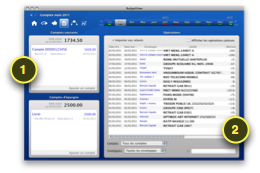
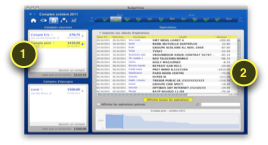
Mise a jour de l'aide

diff --git a/picsou/picsou/website/fr/content/support/change_log.html b/picsou/picsou/website/fr/content/support/change_log.html
@@ -2,6 +2,66 @@
 
   <p>Voici les dernières évolutions de BudgetView&nbsp;:</p>
 
+  <h2>version 2.12 <span class="date">9 octobre 2011</span></h2>
+  <ul>
+    <li>
+      Dans la vue Budget, vous pouvez maintenant passer votre souris pour voir le solde jour par jour, ainsi
+      que les enveloppes pour lesquelles il y a des opérations ce jour-là. Double-cliquez sur un jour pour voir
+      les opérations en question&nbsp;:<br/>
+      <img src="http://www.mybudgetview.fr/files/images/support/v2_12/budgetsummary_day_details.png"/>
+      Merci à Julien pour cette suggestion&nbsp;!
+    </li>
+
+    <li>
+      Toujours dans la vue Budget, de nouveaux indicateurs vous montrent l'évolution de chaque enveloppe par rapport
+      au mois précédent. Vous pouvez ainsi identifier d'un coup d'oeil les principales augmentations de revenus ou de
+      dépenses&nbsp;:<br/>
+      <img src="http://www.mybudgetview.fr/files/images/support/v2_12/evolution_arrows.png"/>
+      Cliquez sur ces flèches pour obtenir des informations supplémentaires.
+    </li>
+
+    <li>
+      La vue d'accueil vous offre maintenant une vision plus claire de vos projets&nbsp;:<br/>
+      <img src="http://www.mybudgetview.fr/files/images/support/v2_12/new_home_view.png"/>
+    </li>
+
+    <li>
+      Pour les banques qui le proposent, BudgetView permet dorénavant d'importer directement
+      vos relevés d'opérations sans que vous n'ayez à télécharger de fichiers à la main sur
+      leur site internet.&nbsp;:<br/>
+      <img src="http://www.mybudgetview.fr/files/images/support/v2_12/reconciliation.png"/><br/>
+      Malheureusement, à notre connaissance parmi les grandes banques Françaises seule La Banque Postale
+      propose ce service aujourd'hui.
+    </li>
+
+    <li>
+      Dans la vue Comptes, vous pouvez maintenant cliquer sur un compte pour voir uniquement les opérations
+      associées&nbsp;:<br/>
+      <img src="http://www.mybudgetview.fr/files/images/support/v2_12/account_selection.png"/>
+      Cette vue montre également l'évolution du solde des comptes au cours du mois.
+    </li>
+
+    <li>
+      La vue Epargne est maintenant accessible à partir du bloc Epargne de la vue Budget&nbsp;:<br/>
+      <img src="http://www.mybudgetview.fr/files/images/support/v2_12/savings_view.png"/>
+    </li>
+
+    <li>corrections et ajustements divers, en particulier :</li>
+    <ul>
+      <li>multi-sélection dans les graphiques de la vue analyse,</li>
+      <li>affichage du montant restant dans la fenêtre d'édition des projets,</li>
+      <li>corrections d'une erreur qui bloquait l'import de certains fichiers Microsoft Money,</li>
+    </ul>
+  </ul>
+
+  <p><b>Pour profiter de ces évolutions</b>, il vous suffit de relancer BudgetView, attendre
+    quelques secondes, puis suivre les instructions qui s'affichent.
+    Si vous n'avez pas encore BudgetView,
+    <a title="Téléchargez BudgetView" href="http://www.mybudgetview.fr/telechargement">installez-le</a> dès maintenant&nbsp;!
+  </p>
+
+  <!------------------------------>
+
   <h2>version 2.08 <span class="date">28 juin 2011</span></h2>
   <ul>
     <li>vous pouvez dorénavant pointer vos opérations dans la vue Catégorisation, pour vous assurer
@@ -10,18 +70,14 @@
       <img src="http://www.mybudgetview.fr/files/images/support/v2/reconciliation.png"/>
     </li>
     <li>corrections et ajustements divers, en particulier :</li>
-      <ul>
-        <li>cartes à débit différé La Poste,</li>
-        <li>feedback,</li>
-        <li>Barclays,</li>
-        <li>meilleure gestion de la sélection des mois dans la fenêtre d'édition des enveloppes)</li>
-      </ul>
+    <ul>
+      <li>une meilleure gestion des cartes à débit différé de La Banque Postale,</li>
+      <li>la prise en compte de certaines spécificités de Barclays dans la gestion du solde des comptes,</li>
+      <li>une meilleure gestion de la sélection des mois dans la fenêtre d'édition des enveloppes.</li>
+    </ul>
   </ul>
-  <p><b>Pour profiter de ces évolutions</b>, il vous suffit de relancer BudgetView et de suivre
-    les instructions qui s'affichent.
-    Si vous n'avez pas encore BudgetView,
-    <a title="Téléchargez BudgetView" href="http://www.mybudgetview.fr/telechargement">installez-le</a> dès maintenant&nbsp;!
-  </p>
+
+  <!------------------------------>
 
   <h2>version 2.07 <span class="date">7 juin 2011</span></h2>
   <ul>
@@ -34,6 +90,8 @@
     <li>corrections et ajustements divers</li>
   </ul>
 
+  <!------------------------------>
+
   <h2>version 2.06 <span class="date">15 mai 2011</span></h2>
   <ul>
     <li>amélioration du guidage dans les phases initiales de l'utilisation</li>
@@ -42,11 +100,15 @@
     <li>corrections et ajustements divers</li>
   </ul>
 
+  <!------------------------------>
+
   <h2>version 2.04 <span class="date">1er mai 2011</span></h2>
   <ul>
     <li>enrichissement de l'aide dans l'ensemble de l'application</li>
     <li>corrections et ajustements divers</li>
   </ul>
+
+  <!------------------------------>
 
   <h2>version 2.03 <span class="date">10 avril 2011</span></h2>
   <ul>

diff --git a/picsou/picsou/src/main/resources/help/fr/interface.html b/picsou/picsou/src/main/resources/help/fr/interface.html
@@ -31,33 +31,27 @@
     </td>
   </tr>
   <tr>
-    <td valign="top"><a href="help:card_data"><img src="help/button_data.png"></a></td>
-    <td>La vue <a href="help:card_data"><b>Comptes</b></a> présente l'ensemble des comptes et des opérations
-      chargés dans l'outil.
-    </td>
-  </tr>
-  <tr>
     <td valign="top"><a href="help:card_budget"><img src="help/button_budget.png"></a></td>
     <td>La vue <a href="help:card_budget"><b>Budget</b></a> est votre poste de pilotage principal.
       Vous y suivez le détail de vos recettes et dépenses, mois par mois.
     </td>
   </tr>
   <tr>
-    <td valign="top"><a href="help:card_savings"><img src="help/button_savings.png"></a></td>
-    <td>La vue <a href="help:card_savings"><b>Epargne</b></a> regroupe l'ensemble de vos comptes d'épargne, avec
-      les enveloppes qui leur sont associées.
-    </td>
-  </tr>
-  <tr>
-    <td valign="top"><a href="help:card_analysis"><img src="help/button_analysis.png"></a></td>
-    <td>La vue <a href="help:card_analysis"><b>Analyse</b></a> vous donne une vue d'ensemble de la composition et
-      de l'évolution de votre budget.
+    <td valign="top"><a href="help:card_data"><img src="help/button_data.png"></a></td>
+    <td>La vue <a href="help:card_data"><b>Comptes</b></a> présente l'ensemble des comptes et des opérations
+      chargés dans l'outil.
     </td>
   </tr>
   <tr>
     <td valign="top"><a href="help:card_categorization"><img src="help/button_categorization.png"></a></td>
     <td>La vue <a href="help:card_categorization"><b>Catégorisation</b></a> vous sert à associer vos
       opérations bancaires à des enveloppes, pour mettre à jour votre budget et voir s'il évolue selon vos prévisions.
+    </td>
+  </tr>
+  <tr>
+    <td valign="top"><a href="help:card_analysis"><img src="help/button_analysis.png"></a></td>
+    <td>La vue <a href="help:card_analysis"><b>Analyse</b></a> vous donne une vue d'ensemble de la composition et
+      de l'évolution de votre budget.
     </td>
   </tr>
 </table>

diff --git a/picsou/picsou/src/main/resources/help/fr/card_home.html b/picsou/picsou/src/main/resources/help/fr/card_home.html
@@ -18,21 +18,21 @@
   <tr>
     <td valign="top"><img src="help/bullet1.png"></td>
     <td>
-      <p>Le <b>Tableau de bord</b> proprement dit affiche les graphiques principaux de l'évolution de
-        votre budget.</p>
-      <p>Le graphe <b>Comptes courants</b> montre l'évolution quotidienne du solde total de vos comptes courants.
-        Cette vue vous permet d'anticiper l'évolution de vos finances dans les mois à venir. Consultez nos conseils
-        de <a href="help:tuning">réglages de votre budget</a> pour exploiter au mieux ce graphe.</p>
-      <p>Vous pouvez double-cliquer sur l'un des mois affichés dans cette graphe pour éditer le budget
-        du mois correspondant.</p>
+      <p>Le bloc <b>Projets</b> vous permet d'anticiper vos projets dans les mois à venir -
+        vacances, travaux, achats importants, mariage, etc. Utilisez le bouton "Ajouter un projet"
+        à gauche pour créer votre projet, et observez immédiatement l'influence de ce projet sur votre budget.</p>
     </td>
   </tr>
   <tr>
     <td valign="top"><img src="help/bullet2.png"></td>
     <td>
-      <p>Le bloc <b>Projets</b> vous permet d'anticiper vos projets dans les mois à venir - vacances, travaux,
-        achats importants, mariage, etc. Utilisez le bouton "Ajouter un projet" au bas de ce bloc, et observez
-        immédiatement l'influence de ce projet sur votre budget.</p>
+      <p>Les graphes <b>Comptes courants</b> et <b>Comptes d'épargne</b> montrent
+        l'évolution quotidienne du solde total de vos comptes, ainsi que la variation mensuelle de vos comptes
+        d'épargne.</p>
+      <p>Cette vue vous permet d'anticiper l'évolution de vos finances dans les mois à venir. Consultez nos conseils
+        de <a href="help:tuning">réglages de votre budget</a> pour exploiter au mieux ce graphe.</p>
+      <p>Vous pouvez double-cliquer sur l'un des mois affichés dans cette graphe pour éditer le budget
+        du mois correspondant.</p>
     </td>
   </tr>
 </table>

diff --git a/picsou/picsou/src/main/resources/help/fr/card_analysis.html b/picsou/picsou/src/main/resources/help/fr/card_analysis.html
@@ -11,12 +11,18 @@
 <ul>
   <li>explorer la composition de votre budget.</li>
   <li>voir l'évolution de ce budget dans les mois à venir, et ainsi anticiper d'éventuels problèmes
-      ou préparer des projets.</li>
+    ou préparer des projets.</li>
   <li>comparer le budget du mois sélectionné à celui du mois précédent.</li>
 </ul>
 
-<p>Vous pouvez cliquer sur le montant d'une <a href="help:envelopes">enveloppe</a> pour éditer les caractéristiques
-  de l'enveloppe - typiquement pour modifier le montant attendu, ou pour changer la périodicité de l'enveloppe.</p>
+<p>Vous pouvez cliquer sur le bouton "Afficher le tableau des détails" au bas de l'écran pour faire
+  apparaître le tableau des montants de chaque <a href="help:envelopes">enveloppe</a>.
+  Dans ce tableau, vous pouvez cliquer sur le montant d'une enveloppe pour éditer les caractéristiques
+  de l'enveloppe - typiquement pour modifier le montant attendu, ou pour changer la périodicité
+  de l'enveloppe.</p>
+
+<p>Vous pouvez aussi cliquer sur les graphes pour sélectionner des postes budgétaires ou des enveloppes
+  spécifiques.</p>
 
 <p style="text-align:right;font-size:9pt;margin-top:10px;">Revenir à la
   <a href="help:interface">présentation de l'interface</a></p>

diff --git a/picsou/picsou/src/main/resources/help/fr/card_budget.html b/picsou/picsou/src/main/resources/help/fr/card_budget.html
@@ -14,6 +14,9 @@
       <p>Chaque bloc présente les enveloppes actives pour le mois en cours.</p>
       <p>Vous pouvez éditer chaque enveloppe en cliquant sur son nom, et ajouter de nouvelles enveloppes en
         utilisant le menu "Actions" au bas de chaque bloc.</p>
+      <p>Les flèches affichées sur la droite de chaque enveloppe vous indiquent l'évolution du montnant
+        de l'enveloppe par rapport au mois précédent. Vous pouvez cliquer sur ces flèches pour obtenir des informations
+        supplémentaires.</p>
     </td>
   </tr>
   <tr>
@@ -31,7 +34,12 @@
   </tr>
 </table>
 
-<p>Consultez la page <a href="help:tuning">régler votre budget</a> pour </p>
+<p>Consultez la page <a href="help:tuning">régler votre budget</a> pour apprendre comment tirer le
+  meilleur de cette vue.</p>
+
+<p>Note: Le bloc "Epargne" affiche uniquement les enveloppes qui représentent des mouvements entre vos comptes courants
+  et vos comptes d'épargne. Pour voir toutes les enveloppes d'épargne, vous pouvez cliquer sur le bouton "Voir tout"
+  au bas de ce bloc.</p>
 
 </body>
 </html>

diff --git a/picsou/picsou/src/main/resources/help/fr/banks.html b/picsou/picsou/src/main/resources/help/fr/banks.html
@@ -2,6 +2,7 @@
 <body>
 
 <p>BudgetView est aujourd'hui utilisé avec des relevés des banques suivantes&nbsp;:</p>
+
 <ul>
   <li>BNP</li>
   <li>Caisse d'Epargne</li>
@@ -10,8 +11,11 @@
   <li>Crédit Mutuel</li>
   <li>La Poste</li>
   <li>LCL</li>
+  <li>La Banque Postale</li>
   <li>Société Générale</li>
 </ul>
+
+<p>L'import direct des relevés est disponible pour La Banque Postale.</p>
 
 <p>Cette liste n'est pas exhaustive. BudgetView peut parfaitement fonctionner avec les exports d'autres banques
    pourvu qu'elles proposent un export de vos relevés aux formats QIF et OFX.</p>

diff --git a/picsou/picsou/src/main/resources/help/fr/card_data.html b/picsou/picsou/src/main/resources/help/fr/card_data.html
@@ -13,7 +13,9 @@
     <td valign="top"><img src="help/bullet1.png"></td>
     <td>
       <p>Les deux blocs <b>Comptes courants</b> et <b>Comptes d'épargne</b> affichent la liste de vos comptes.
-        Il vous suffit de cliquer sur les noms des comptes pour les éditer.</p>
+        Il vous suffit de cliquer sur les noms des comptes pour les éditer, et vous pouvez
+        aussi cliquer sur la ligne d'un compte pour voir uniquement les opérations du compte
+        en question.</p>
     </td>
   </tr>
   <tr>

diff --git a/picsou/picsou/src/main/resources/help/fr/index.html b/picsou/picsou/src/main/resources/help/fr/index.html
@@ -27,7 +27,6 @@
         <li><a href="help:card_budget">Vue Budget</a></li>
         <li><a href="help:card_categorization">Vue Catégorisation</a></li>
         <li><a href="help:card_data">Vue Comptes</a></li>
-        <li><a href="help:card_savings">Vue Epargne</a></li>
         <li><a href="help:card_analysis">Vue Analyse</a></li>
       </ul>
 
